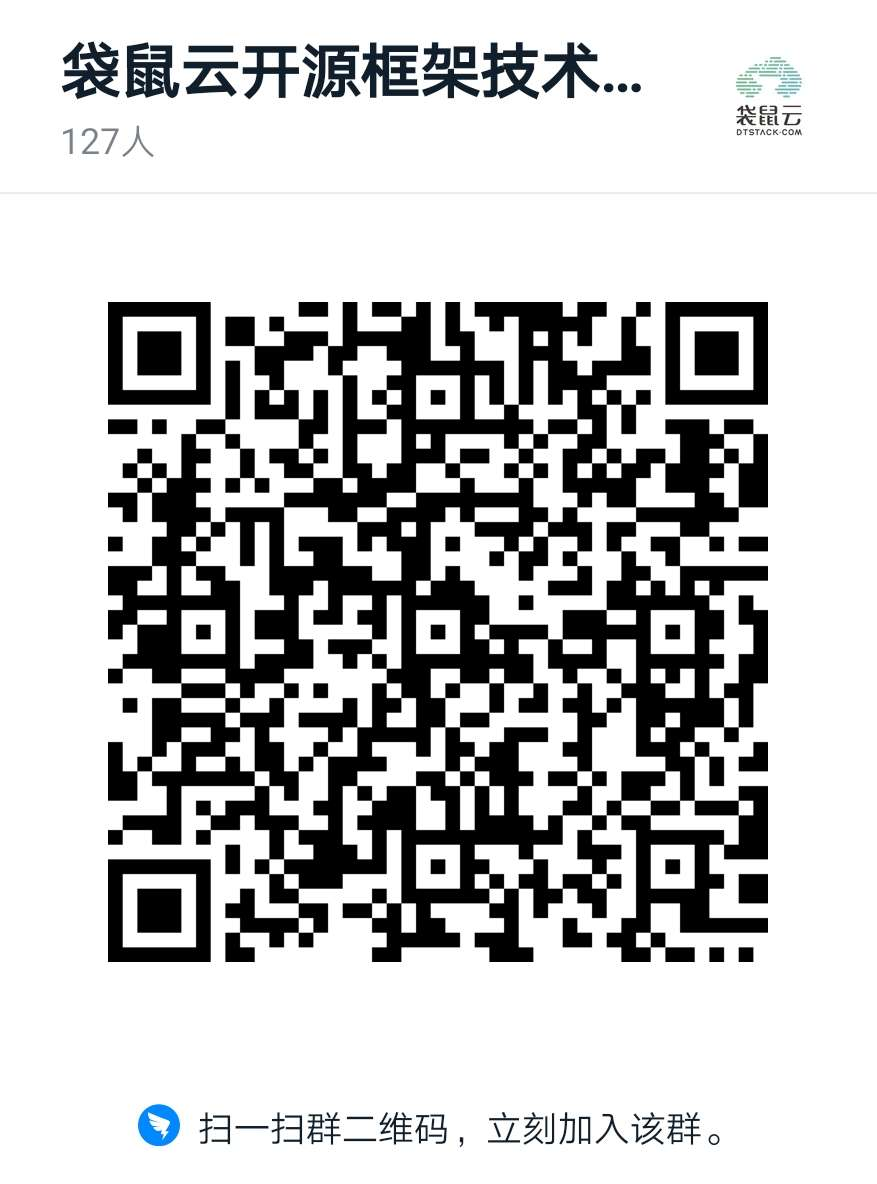
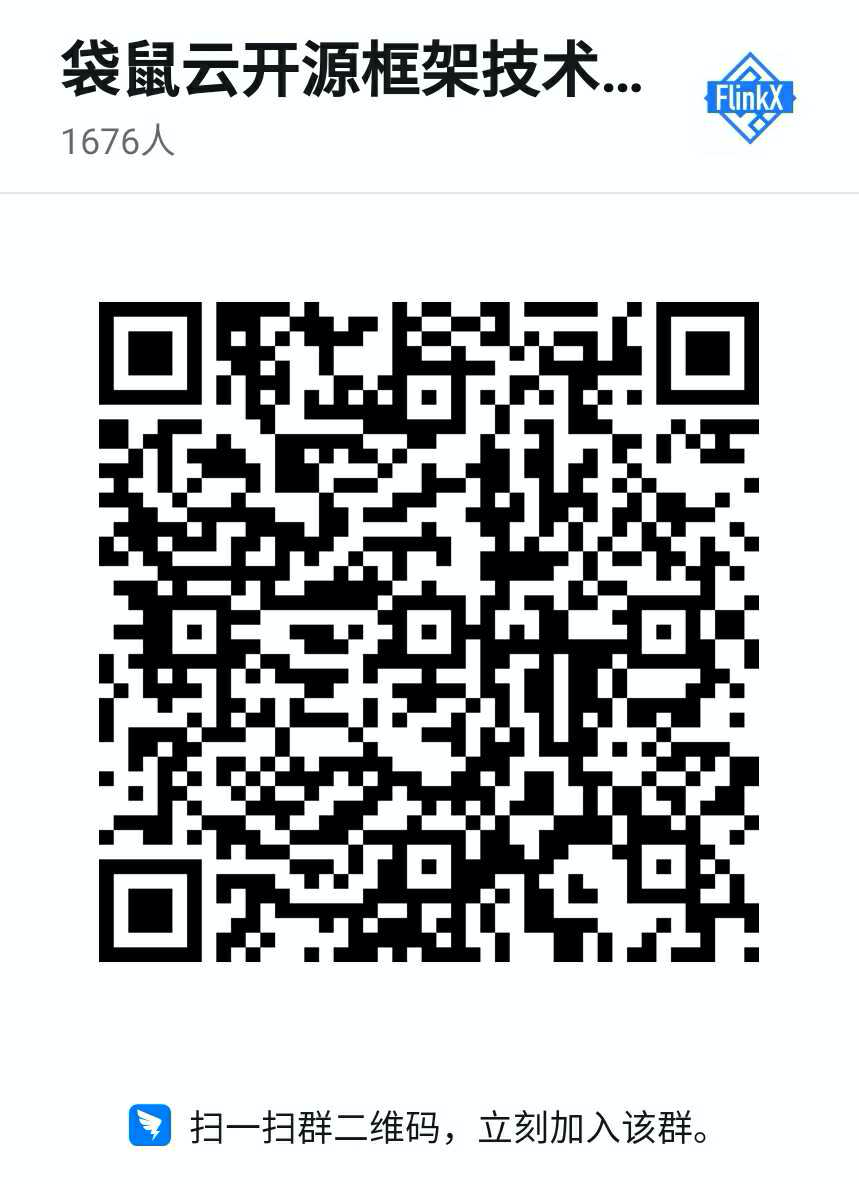
[docs][docs]1、fix #368 钉钉群二维码失效问题；2、readme默认由英文改为中文

diff --git a/README.md b/README.md
@@ -3,47 +3,57 @@ FlinkX
 
 [![License](https://img.shields.io/badge/license-Apache%202-4EB1BA.svg)](https://www.apache.org/licenses/LICENSE-2.0.html)
 
-English | [中文](README_CH.md)
+[English](README_EN.md) | 中文
 
-# Communication
+# 技术交流
 
-- We are recruiting **Big data platform development engineers**. If you want more information about the position, please add WeChat ID [**ysqwhiletrue**] or email your resume to [sishu@dtstack.com](mailto:sishu@dtstack.com).
+- 招聘**Flink研发工程师**，如果有兴趣可以联系思枢（微信号：ysqwhiletrue）<BR>
+Flink开发工程师JD要求：<BR>
+1.负责袋鼠云基于Flink的衍生框架数据同步flinkx和实时计算flinkstreamsql框架的开发；<BR>
+2.调研和把握当前最新大数据实时计算技术，将其中的合适技术引入到平台中，改善产品，提升竞争力；<BR>
+职位要求：<BR>
+1、本科及以上学历，3年及以上的Flink开发经验，精通Java，熟悉Scala、Python优先考虑；<BR>
+2、熟悉Flink原理，有基于Flink做过二次源码的开发，在github上贡献者Flink源码者优先；<BR>
+3、有机器学习、数据挖掘相关经验者优先；<BR>
+4、对新技术有快速学习和上手能力，对代码有一定的洁癖；<BR>
+加分项：<BR>
+1.在GitHub或其他平台上有过开源项目<BR>
+可以添加本人微信号ysqwhiletrue，注明招聘，如有意者发送简历至[sishu@dtstack.com](mailto:sishu@dtstack.com)
 
-- We use [DingTalk](https://www.dingtalk.com/) to communicate, you can search the group number [**30537511**] or scan the QR code below to join the communication group
+- 我们使用[钉钉](https://www.dingtalk.com/)沟通交流，可以搜索群号[**30537511**]或者扫描下面的二维码进入钉钉群
   
 <div align=center>
-  <img src=docs/images/ding.jpg width=300 />
+ <img src=docs/images/ding.jpg width=300 />
 </div>
 
-# Introduction
+# 介绍
+* **FlinkX是在是袋鼠云内部广泛使用的基于flink的分布式离线和实时的数据同步框架，实现了多种异构数据源之间高效的数据迁移。**
 
-* **FlinkX is a distributed offline and real-time data synchronization framework based on flink widely used in 袋鼠云, which realizes efficient data migration between multiple heterogeneous data sources.**
-
-Different data sources are abstracted into different Reader plugins, and different data targets are abstracted into different Writer plugins. In theory, the FlinkX framework can support data synchronization of any data source type. As a set of ecosystems, every time a set of new data sources is connected, the newly added data sources can realize intercommunication with existing data sources.
+不同的数据源头被抽象成不同的Reader插件，不同的数据目标被抽象成不同的Writer插件。理论上，FlinkX框架可以支持任意数据源类型的数据同步工作。作为一套生态系统，每接入一套新数据源该新加入的数据源即可实现和现有的数据源互通。
 
 <div align=center>
   <img src=docs/images/template.png width=300 />
 </div>
 
-FlinkX is a data synchronization tool based on Flink. FlinkX can collect static data, such as MySQL, HDFS, etc, as well as real-time changing data, such as MySQL binlog, Kafka, etc. FlinkX currently includes the following features:
+FlinkX是一个基于Flink的批流统一的数据同步工具，既可以采集静态的数据，比如MySQL，HDFS等，也可以采集实时变化的数据，比如MySQL binlog，Kafka等。FlinkX目前包含下面这些特性：
 
-- Most plugins support concurrent reading and writing of data, which can greatly improve the speed of reading and writing;
+- 大部分插件支持并发读写数据，可以大幅度提高读写速度；
 
-- Some plug-ins support the function of failure recovery, which can restore tasks from the failed location and save running time; [Failure Recovery](docs/restore.md)
+- 部分插件支持失败恢复的功能，可以从失败的位置恢复任务，节约运行时间；[失败恢复](docs/restore.md)
 
-- The Reader plugin for relational databases supports interval polling. It can continuously collect changing data; [Interval Polling](docs/offline/reader/mysqlreader.md)
+- 关系数据库的Reader插件支持间隔轮询功能，可以持续不断的采集变化的数据；[间隔轮询](docs/offline/reader/mysqlreader.md)
 
-- Some databases support opening Kerberos security authentication;  [Kerberos](docs/kerberos.md)
+- 部分数据库支持开启Kerberos安全认证；[Kerberos](docs/kerberos.md)
 
-- Limit the reading speed of Reader plugins and reduce the impact on business databases;
+- 可以限制reader的读取速度，降低对业务数据库的影响；
 
-- Save the dirty data when writing data;
+- 可以记录writer插件写数据时产生的脏数据；
 
-- Limit the maximum number of dirty data;
+- 可以限制脏数据的最大数量；
 
-- Multiple running modes: Local,Standalone,Yarn Session,Yarn Per;
+- 支持多种运行模式；
 
-The following databases are currently supported:
+FlinkX目前支持下面这些数据库：
 
 |                        | Database Type  | Reader                          | Writer                          |
 |:----------------------:|:--------------:|:-------------------------------:|:-------------------------------:|
@@ -75,42 +85,42 @@ The following databases are currently supported:
 |                        | Hive           |                                                  | [doc](docs/offline/writer/hivewriter.md)       |
 | Stream Synchronization | Kafka          | [doc](docs/realTime/reader/kafkareader.md)       | [doc](docs/realTime/writer/kafkawriter.md)     |
 |                        | EMQX           | [doc](docs/realTime/reader/emqxreader.md)        | [doc](docs/realTime/writer/emqxwriter.md)      |
-|                        | RestApi        || [doc](docs/realTime/writer/restapiwriter.md)   |
+|                        | RestApi        |[doc](docs/realTime/reader/restapireader.md)  | [doc](docs/realTime/writer/restapiwriter.md)   |
 |                        | MySQL Binlog   | [doc](docs/realTime/reader/binlogreader.md)      |                                                |
 |                        | MongoDB Oplog  | [doc](docs/realTime/reader/mongodboplogreader.md)|                                                |
 |                        | PostgreSQL WAL | [doc](docs/realTime/reader/pgwalreader.md)       |                                                |
-|                        | Oracle LogMiner| [doc](docs/realTime/reader/LogMiner.md)      |                                                |
-|                        | Sqlserver CDC| [doc](docs/realTime/reader/sqlservercdc.md)      |                                                |
+|                        | Oracle LogMiner  | [doc](docs/realTime/reader/LogMiner.md)      |                                                |
+|                        | Sqlserver CDC  | [doc](docs/realTime/reader/sqlservercdc.md)      |                                                |
 
-# Fundamental
-In the underlying implementation, FlinkX relies on Flink, and the data synchronization task will be translated into StreamGraph and executed on Flink. The basic principle is as follows:
+# 基本原理
+在底层实现上，FlinkX依赖Flink，数据同步任务会被翻译成StreamGraph在Flink上执行，基本原理如下图：
 <div align=center>
   <img src=docs/images/diagram.png width=700 />
 </div>
 
-# Quick Start
+# 快速开始
 
-Please click [Quick Start](docs/quickstart.md)
+请点击[快速开始](docs/quickstart.md)
 
-# General Configuration
+# 通用配置
 
-Please click [General Configuration](docs/generalconfig.md)
+请点击[插件通用配置](docs/generalconfig.md)
 
-# Statistics Metric
+# 统计指标
 
-Please click [Statistics Metric](docs/statistics.md)
+请点击[统计指标](docs/statistics.md)
 
 # Kerberos
 
-Please click [Kerberos](docs/kerberos.md)
+请点击[Kerberos](docs/kerberos.md)
 
 # Questions
 
-Please click [Questions](docs/questions.md)
+请点击[Questions](docs/questions.md)
 
-# How to contribute FlinkX
+# 如何贡献FlinkX
 
-Please click [Contribution](docs/contribution.md)
+请点击[如何贡献FlinkX](docs/contribution.md)
 
 # License
 

diff --git a/README_EN.md b/README_EN.md
@@ -3,57 +3,47 @@ FlinkX
 
 [![License](https://img.shields.io/badge/license-Apache%202-4EB1BA.svg)](https://www.apache.org/licenses/LICENSE-2.0.html)
 
-[English](README.md) | 中文
+English | [中文](README.md)
 
-# 技术交流
+# Communication
 
-- 招聘**Flink研发工程师**，如果有兴趣可以联系思枢（微信号：ysqwhiletrue）<BR>
-Flink开发工程师JD要求：<BR>
-1.负责袋鼠云基于Flink的衍生框架数据同步flinkx和实时计算flinkstreamsql框架的开发；<BR>
-2.调研和把握当前最新大数据实时计算技术，将其中的合适技术引入到平台中，改善产品，提升竞争力；<BR>
-职位要求：<BR>
-1、本科及以上学历，3年及以上的Flink开发经验，精通Java，熟悉Scala、Python优先考虑；<BR>
-2、熟悉Flink原理，有基于Flink做过二次源码的开发，在github上贡献者Flink源码者优先；<BR>
-3、有机器学习、数据挖掘相关经验者优先；<BR>
-4、对新技术有快速学习和上手能力，对代码有一定的洁癖；<BR>
-加分项：<BR>
-1.在GitHub或其他平台上有过开源项目<BR>
-可以添加本人微信号ysqwhiletrue，注明招聘，如有意者发送简历至[sishu@dtstack.com](mailto:sishu@dtstack.com)
+- We are recruiting **Big data platform development engineers**. If you want more information about the position, please add WeChat ID [**ysqwhiletrue**] or email your resume to [sishu@dtstack.com](mailto:sishu@dtstack.com).
 
-- 我们使用[钉钉](https://www.dingtalk.com/)沟通交流，可以搜索群号[**30537511**]或者扫描下面的二维码进入钉钉群
+- We use [DingTalk](https://www.dingtalk.com/) to communicate, you can search the group number [**30537511**] or scan the QR code below to join the communication group
   
 <div align=center>
- <img src=docs/images/ding.jpg width=300 />
+  <img src=docs/images/ding.jpg width=300 />
 </div>
 
-# 介绍
-* **FlinkX是在是袋鼠云内部广泛使用的基于flink的分布式离线和实时的数据同步框架，实现了多种异构数据源之间高效的数据迁移。**
+# Introduction
 
-不同的数据源头被抽象成不同的Reader插件，不同的数据目标被抽象成不同的Writer插件。理论上，FlinkX框架可以支持任意数据源类型的数据同步工作。作为一套生态系统，每接入一套新数据源该新加入的数据源即可实现和现有的数据源互通。
+* **FlinkX is a distributed offline and real-time data synchronization framework based on flink widely used in 袋鼠云, which realizes efficient data migration between multiple heterogeneous data sources.**
+
+Different data sources are abstracted into different Reader plugins, and different data targets are abstracted into different Writer plugins. In theory, the FlinkX framework can support data synchronization of any data source type. As a set of ecosystems, every time a set of new data sources is connected, the newly added data sources can realize intercommunication with existing data sources.
 
 <div align=center>
   <img src=docs/images/template.png width=300 />
 </div>
 
-FlinkX是一个基于Flink的批流统一的数据同步工具，既可以采集静态的数据，比如MySQL，HDFS等，也可以采集实时变化的数据，比如MySQL binlog，Kafka等。FlinkX目前包含下面这些特性：
+FlinkX is a data synchronization tool based on Flink. FlinkX can collect static data, such as MySQL, HDFS, etc, as well as real-time changing data, such as MySQL binlog, Kafka, etc. FlinkX currently includes the following features:
 
-- 大部分插件支持并发读写数据，可以大幅度提高读写速度；
+- Most plugins support concurrent reading and writing of data, which can greatly improve the speed of reading and writing;
 
-- 部分插件支持失败恢复的功能，可以从失败的位置恢复任务，节约运行时间；[失败恢复](docs/restore.md)
+- Some plug-ins support the function of failure recovery, which can restore tasks from the failed location and save running time; [Failure Recovery](docs/restore.md)
 
-- 关系数据库的Reader插件支持间隔轮询功能，可以持续不断的采集变化的数据；[间隔轮询](docs/offline/reader/mysqlreader.md)
+- The Reader plugin for relational databases supports interval polling. It can continuously collect changing data; [Interval Polling](docs/offline/reader/mysqlreader.md)
 
-- 部分数据库支持开启Kerberos安全认证；[Kerberos](docs/kerberos.md)
+- Some databases support opening Kerberos security authentication;  [Kerberos](docs/kerberos.md)
 
-- 可以限制reader的读取速度，降低对业务数据库的影响；
+- Limit the reading speed of Reader plugins and reduce the impact on business databases;
 
-- 可以记录writer插件写数据时产生的脏数据；
+- Save the dirty data when writing data;
 
-- 可以限制脏数据的最大数量；
+- Limit the maximum number of dirty data;
 
-- 支持多种运行模式；
+- Multiple running modes: Local,Standalone,Yarn Session,Yarn Per;
 
-FlinkX目前支持下面这些数据库：
+The following databases are currently supported:
 
 |                        | Database Type  | Reader                          | Writer                          |
 |:----------------------:|:--------------:|:-------------------------------:|:-------------------------------:|
@@ -85,42 +75,42 @@ FlinkX目前支持下面这些数据库：
 |                        | Hive           |                                                  | [doc](docs/offline/writer/hivewriter.md)       |
 | Stream Synchronization | Kafka          | [doc](docs/realTime/reader/kafkareader.md)       | [doc](docs/realTime/writer/kafkawriter.md)     |
 |                        | EMQX           | [doc](docs/realTime/reader/emqxreader.md)        | [doc](docs/realTime/writer/emqxwriter.md)      |
-|                        | RestApi        |[doc](docs/realTime/reader/restapireader.md)  | [doc](docs/realTime/writer/restapiwriter.md)   |
+|                        | RestApi        || [doc](docs/realTime/writer/restapiwriter.md)   |
 |                        | MySQL Binlog   | [doc](docs/realTime/reader/binlogreader.md)      |                                                |
 |                        | MongoDB Oplog  | [doc](docs/realTime/reader/mongodboplogreader.md)|                                                |
 |                        | PostgreSQL WAL | [doc](docs/realTime/reader/pgwalreader.md)       |                                                |
-|                        | Oracle LogMiner  | [doc](docs/realTime/reader/LogMiner.md)      |                                                |
-|                        | Sqlserver CDC  | [doc](docs/realTime/reader/sqlservercdc.md)      |                                                |
+|                        | Oracle LogMiner| [doc](docs/realTime/reader/LogMiner.md)      |                                                |
+|                        | Sqlserver CDC| [doc](docs/realTime/reader/sqlservercdc.md)      |                                                |
 
-# 基本原理
-在底层实现上，FlinkX依赖Flink，数据同步任务会被翻译成StreamGraph在Flink上执行，基本原理如下图：
+# Fundamental
+In the underlying implementation, FlinkX relies on Flink, and the data synchronization task will be translated into StreamGraph and executed on Flink. The basic principle is as follows:
 <div align=center>
   <img src=docs/images/diagram.png width=700 />
 </div>
 
-# 快速开始
+# Quick Start
 
-请点击[快速开始](docs/quickstart.md)
+Please click [Quick Start](docs/quickstart.md)
 
-# 通用配置
+# General Configuration
 
-请点击[插件通用配置](docs/generalconfig.md)
+Please click [General Configuration](docs/generalconfig.md)
 
-# 统计指标
+# Statistics Metric
 
-请点击[统计指标](docs/statistics.md)
+Please click [Statistics Metric](docs/statistics.md)
 
 # Kerberos
 
-请点击[Kerberos](docs/kerberos.md)
+Please click [Kerberos](docs/kerberos.md)
 
 # Questions
 
-请点击[Questions](docs/questions.md)
+Please click [Questions](docs/questions.md)
 
-# 如何贡献FlinkX
+# How to contribute FlinkX
 
-请点击[如何贡献FlinkX](docs/contribution.md)
+Please click [Contribution](docs/contribution.md)
 
 # License
 
